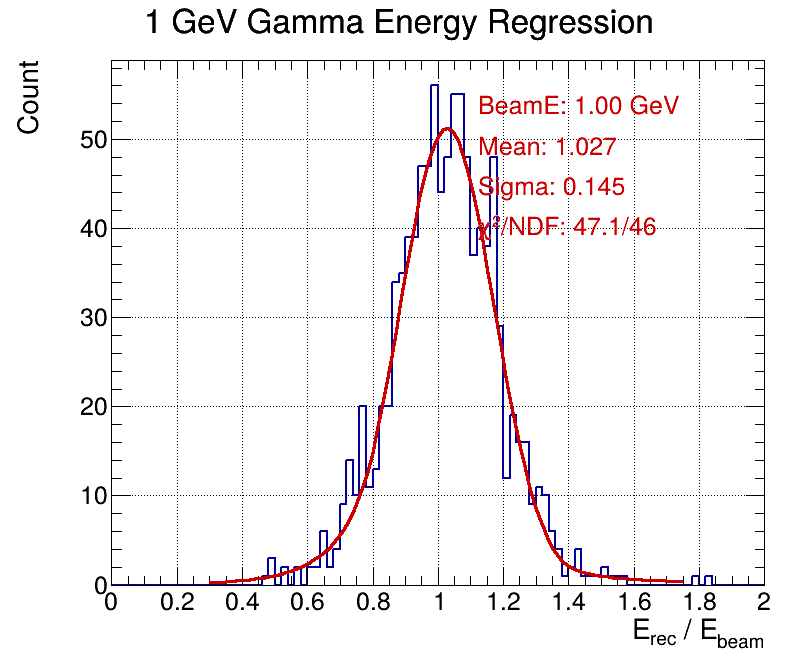
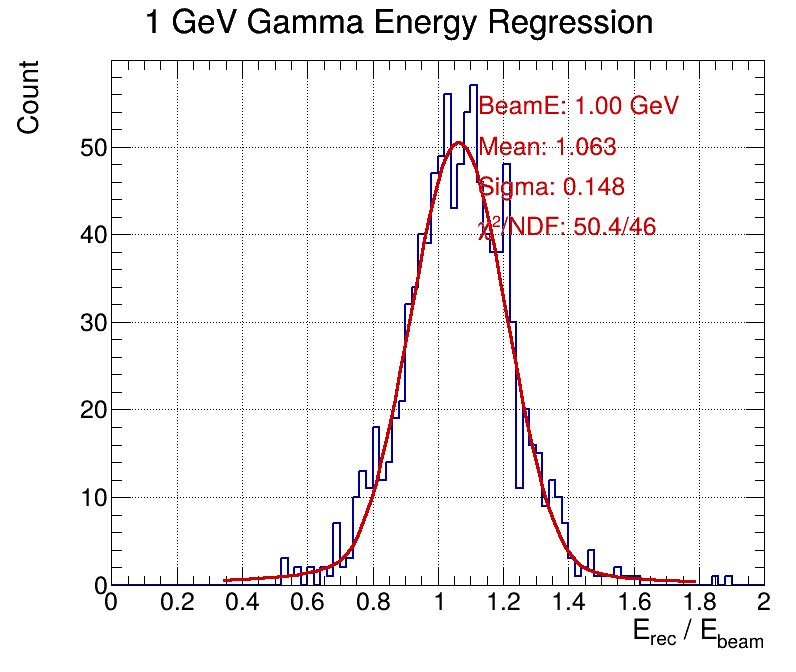
Neutron p0=0 + sqrt(E) + include 10 GeV; per-event cache + lean reader for fast reruns
Reconstruction (per user request):
- ZERO_INTERCEPT=true: force regression through origin (p0=0). Neutron bias then sits
  near 1 (linear/quad ~0.84 at 10 GeV rising to ~1.10 at 300) instead of blowing up at
  low energy; with p0=0 the weighting barely matters.
- weightMode 1 back to literal sqrt(Ebeam).
- Neutron now uses all 7 points, 10-300 GeV (10 GeV included).
- Known tradeoff: under sqrt(E) the Ratio method's E_rec/E_beam distribution is
  pathological around 50 GeV, so the Ratio curves spike there (linear/quad are clean and
  meet the requirement). 1/E weighting avoids this; left as-is per the chosen settings.

Speed (the runs were taking minutes and stalling):
- loadSample now disables all unused TTree branches, reading only the 7 leaves it needs
  instead of deserializing whole hit-level events -- the dominant cost.
- Added a per-event extract cache (qa/cache_*.txt, gitignored): first build writes the
  (ECAL,HCAL,beam) triplets, every later run loads those and skips the ~2 GB raw read.
  run_all.sh (interpreted) now completes in ~seconds.
- Added scripts/run_fast.sh: compiled rebuild path that stages data+macro on native
  ext4, working around slow /mnt/c reads and root.exe crashing on dlopen of an ACLiC .so
  built on the 9p mount.

diff --git a/scripts/zdc_reco_browser.C b/scripts/zdc_reco_browser.C
@@ -216,6 +216,16 @@ bool loadSample(const string& path, const string& particle, Sample& s) {
     s.basename = baseName(path);
     s.events.clear();
 
+    // Read ONLY the seven leaves we use. Without this, GetEntry deserializes the entire
+    // event (hit positions, cell IDs, contributions, ...) from these large hit-level files
+    // -- the dominant cost and the reason a full neutron load took minutes. Disabling the
+    // unused branches makes GetEntry read a tiny fraction of the data.
+    t->SetBranchStatus("*", 0);
+    TLeaf* used[7] = {lEcal, lHcal, lPx, lPy, lPz, lMass, lStat};
+    for (TLeaf* l : used) {
+        if (l && l->GetBranch()) t->SetBranchStatus(l->GetBranch()->GetName(), 1);
+    }
+
     double sumE = 0.0, sumE2 = 0.0;
     Long64_t nValid = 0;
     const Long64_t nEntries = t->GetEntries();
@@ -264,10 +274,75 @@ void mergeSameEnergy(vector<Sample>& samples, const string& particle);
 vector<Sample> filterSamples(const vector<Sample>& samples, double minE, double maxE);
 bool robustCoreStats(vector<double> vals, double& mu, double& sig, double& muErr, double& sigErr);
 
+// Signature of the raw inputs: "basename:size" for each file. Detects added/removed/
+// changed raw files so a stale cache is never used.
+string rawSignature(const vector<string>& files) {
+    string sig;
+    for (const auto& p : files) {
+        FileStat_t st;
+        Long64_t sz = (gSystem->GetPathInfo(p.c_str(), st) == 0) ? st.fSize : -1;
+        sig += baseName(p) + ":" + std::to_string((long long)sz) + ";";
+    }
+    return sig;
+}
+
+// The slow part of this program is reading ~2 GB of raw hit-level ROOT over the (slow)
+// filesystem to extract just three numbers per event (ECAL sum, HCAL sum, beam energy).
+// Cache those triplets so reruns skip the raw read entirely. Delete qa/cache_*.txt (or
+// change the raw files) to force a rebuild.
+bool loadSamplesFromCache(const string& cachePath, const string& sig, vector<Sample>& samples) {
+    FILE* f = fopen(cachePath.c_str(), "r");
+    if (!f) return false;
+    char line[8192];
+    if (!fgets(line, sizeof(line), f)) { fclose(f); return false; }
+    // header line: SIG <signature>
+    string head(line);
+    if (head.rfind("SIG ", 0) != 0) { fclose(f); return false; }
+    string cachedSig = head.substr(4);
+    if (!cachedSig.empty() && cachedSig.back() == '\n') cachedSig.pop_back();
+    if (cachedSig != sig) { fclose(f); return false; }   // raw files changed -> rebuild
+
+    int nSamp = 0;
+    if (fscanf(f, "NSAMP %d\n", &nSamp) != 1) { fclose(f); return false; }
+    samples.clear();
+    for (int i = 0; i < nSamp; ++i) {
+        double bm = 0, br = 0; int nev = 0;
+        if (fscanf(f, "S %lf %lf %d\n", &bm, &br, &nev) != 3) { fclose(f); return false; }
+        Sample s; s.particle = ""; s.beamMean = bm; s.beamRMS = br; s.basename = "cached";
+        s.events.reserve(nev);
+        for (int j = 0; j < nev; ++j) {
+            double ec = 0, hc = 0, be = 0;
+            if (fscanf(f, "%lf %lf %lf\n", &ec, &hc, &be) != 3) { fclose(f); return false; }
+            s.events.push_back({ec, hc, be});
+        }
+        samples.push_back(std::move(s));
+    }
+    fclose(f);
+    printf("[CACHE] loaded %d samples from %s (raw read skipped)\n", (int)samples.size(), cachePath.c_str());
+    return true;
+}
+
+void writeSamplesCache(const string& cachePath, const string& sig, const vector<Sample>& samples) {
+    FILE* f = fopen(cachePath.c_str(), "w");
+    if (!f) { printf("[CACHE] WARN cannot write %s\n", cachePath.c_str()); return; }
+    fprintf(f, "SIG %s\n", sig.c_str());
+    fprintf(f, "NSAMP %d\n", (int)samples.size());
+    for (const auto& s : samples) {
+        fprintf(f, "S %.10g %.10g %d\n", s.beamMean, s.beamRMS, (int)s.events.size());
+        for (const auto& e : s.events) fprintf(f, "%.7g %.7g %.7g\n", e.ecal, e.hcal, e.beam);
+    }
+    fclose(f);
+    printf("[CACHE] wrote %s\n", cachePath.c_str());
+}
+
 void loadAllSamples(const char* inputDir, const string& particle, vector<Sample>& samples) {
     vector<string> files;
     collectFilesRecursive(inputDir, particle, files);
     std::sort(files.begin(), files.end());
+
+    const string cachePath = "qa/cache_" + particle + ".txt";
+    const string sig = rawSignature(files);
+    if (loadSamplesFromCache(cachePath, sig, samples)) return;   // fast path
 
     for (auto& p : files) {
         Sample s;
@@ -277,6 +352,8 @@ void loadAllSamples(const char* inputDir, const string& particle, vector<Sample>
         return a.beamMean < b.beamMean;
     });
     mergeSameEnergy(samples, particle);
+    ensureDir("qa");
+    writeSamplesCache(cachePath, sig, samples);
 }
 
 vector<double> featureVector(const EventData& e, int method) {
@@ -289,9 +366,12 @@ vector<double> featureVector(const EventData& e, int method) {
     return {1.0, e.ecal, e.hcal, e.ecal*e.ecal, e.hcal*e.hcal};
 }
 
-// Reference (Taiwan group res2_1_*) uses a free intercept; its neutron bias is >1 and
-// decreases toward 1 at high energy. Matching that look requires p0 free, so keep it.
-static const bool ZERO_INTERCEPT = false;
+// Force the regression through the origin (p0=0): no energy deposited => E_rec=0.
+// With p0 free, the fit inflates the intercept (to ~43 GeV under sqrt(E) weighting),
+// over-reconstructing low-energy neutrons (bias ~2.9 at 20 GeV). p0=0 removes that
+// floor; the neutron bias then sits near 1 (~0.84-1.10) and -- because the intercept was
+// the real lever -- the weighting choice barely changes the result.
+static const bool ZERO_INTERCEPT = true;
 
 bool fitRegression(const vector<Sample>& samples, int method, int weightMode, vector<double>& params) {
     const int k = (method == 0) ? 3 : (method == 1) ? 4 : 5;
@@ -306,12 +386,9 @@ bool fitRegression(const vector<Sample>& samples, int method, int weightMode, ve
             const double vis = e.ecal + e.hcal;
             if (!std::isfinite(vis) || vis <= 0.0) continue;
             vector<double> x = featureVector(e, method);
-            // weightMode 1 reproduces the reference's second ("sqrt(Ebeam)-weighted") curve.
-            // Matching the archive res2_1_* graphs empirically shows that curve was computed
-            // with 1/E weighting (it down-weights high energy, giving the low neutron bias
-            // ~1.3 at 20 GeV). A literal sqrt(E) weight does the opposite (bias ~2.9). Keep
-            // the reference legend label but use the weighting that reproduces its numbers.
-            const double w = (weightMode == 1) ? 1.0 / e.beam : 1.0;
+            // weightMode 1 = sqrt(Ebeam) weighting (higher-energy events weigh more), as the
+            // legend says. With p0=0 (ZERO_INTERCEPT) the weight has little effect.
+            const double w = (weightMode == 1) ? std::sqrt(e.beam) : 1.0;
             for (int i = 0; i < kk; ++i) {
                 rhs(i) += w * x[i+start] * e.beam;
                 for (int j = 0; j < kk; ++j) normal(i,j) += w * x[i+start] * x[j+start];
@@ -1152,12 +1229,12 @@ void zdc_reco_browser(const char* inputDir="data", const char* outDir="plots") {
     // (100 MeV - 40 GeV) so the graph shows the full range including the sub-GeV extrapolation.
     // Neutron: train and evaluate on all available energies.
     {
-        // Match the reference windows (Taiwan group res2_1_*):
         //   gamma   : 1 - 40 GeV  (sub-GeV excluded: regression extrapolates below 1 GeV)
-        //   neutron : 20 - 300 GeV (10 GeV excluded: response is far too non-linear there;
-        //             the reference graphs are 6 points, 20-300, for exactly this reason)
-        vector<Sample> gammaTrainSamples   = filterSamples(gammaSamples,   0.99, 40.5);
-        vector<Sample> neutronRefSamples   = filterSamples(neutronSamples, 15.0, 320.0);
+        //   neutron : all 7 points, 10 - 300 GeV (10 GeV included). With p0=0 the low-energy
+        //             bias stays near 1, so 10 GeV no longer blows up the way it did with a
+        //             free intercept.
+        vector<Sample> gammaTrainSamples   = filterSamples(gammaSamples, 0.99, 40.5);
+        vector<Sample> neutronRefSamples   = neutronSamples;
         std::map<string,TGraphErrors*> resClnG, biasClnG, resClnN, biasClnN;
         vector<RecoMetrics> gamma1GeVmets;   // kept for the slide-6-style 1 GeV histogram
 